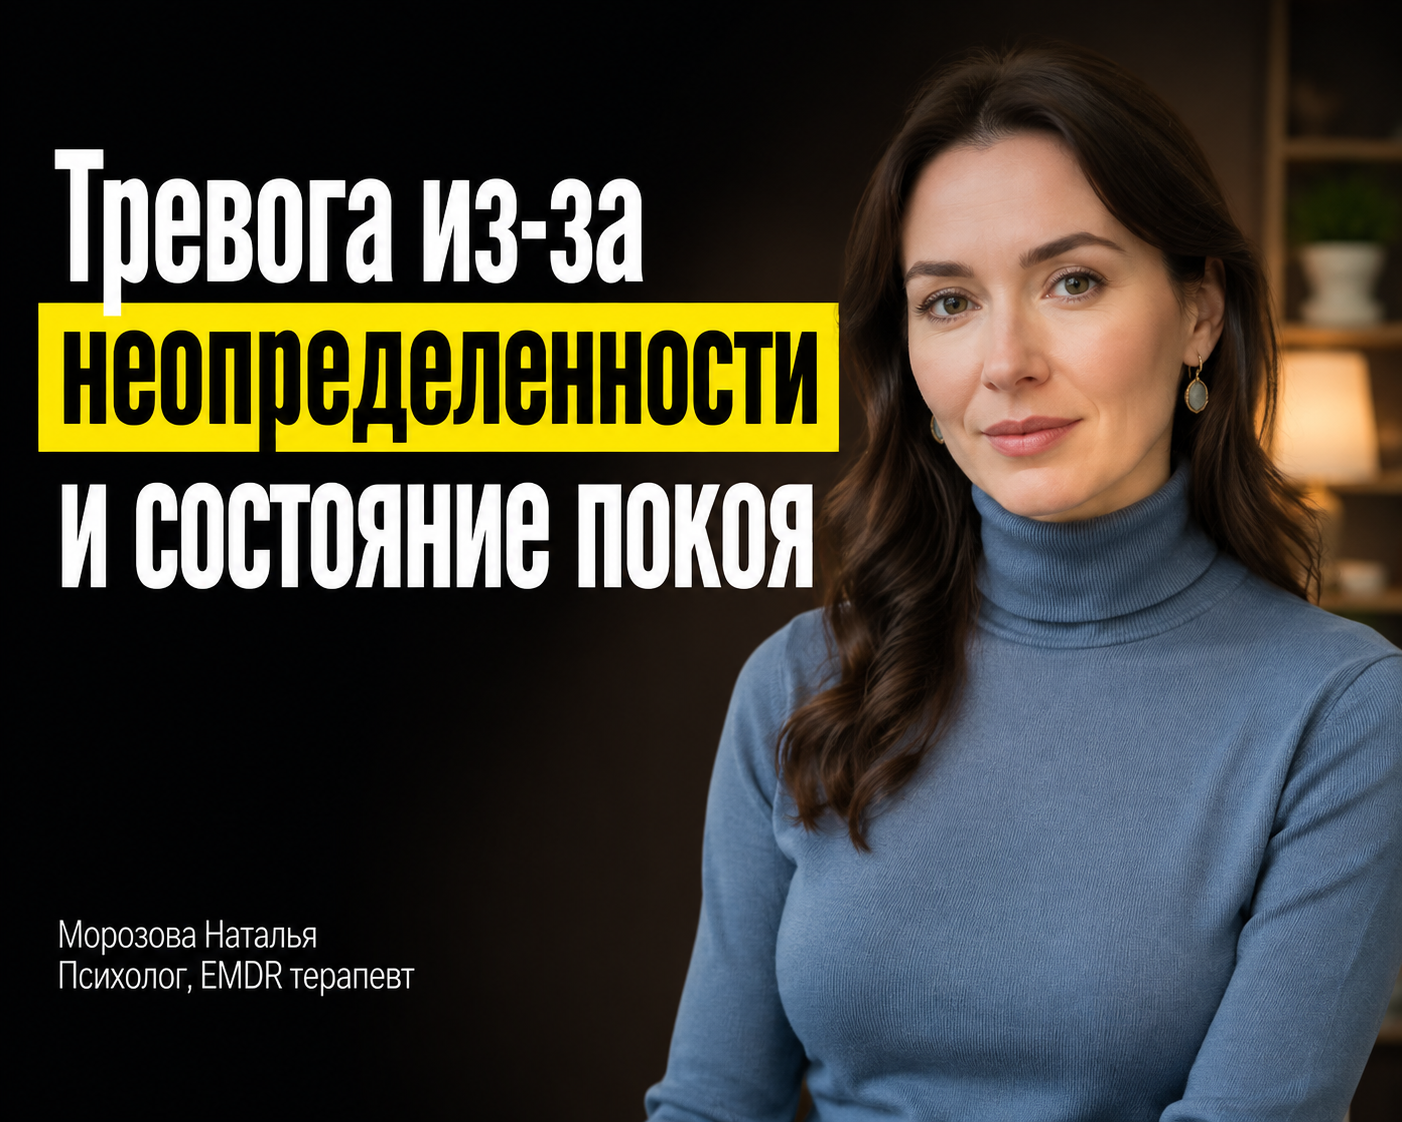
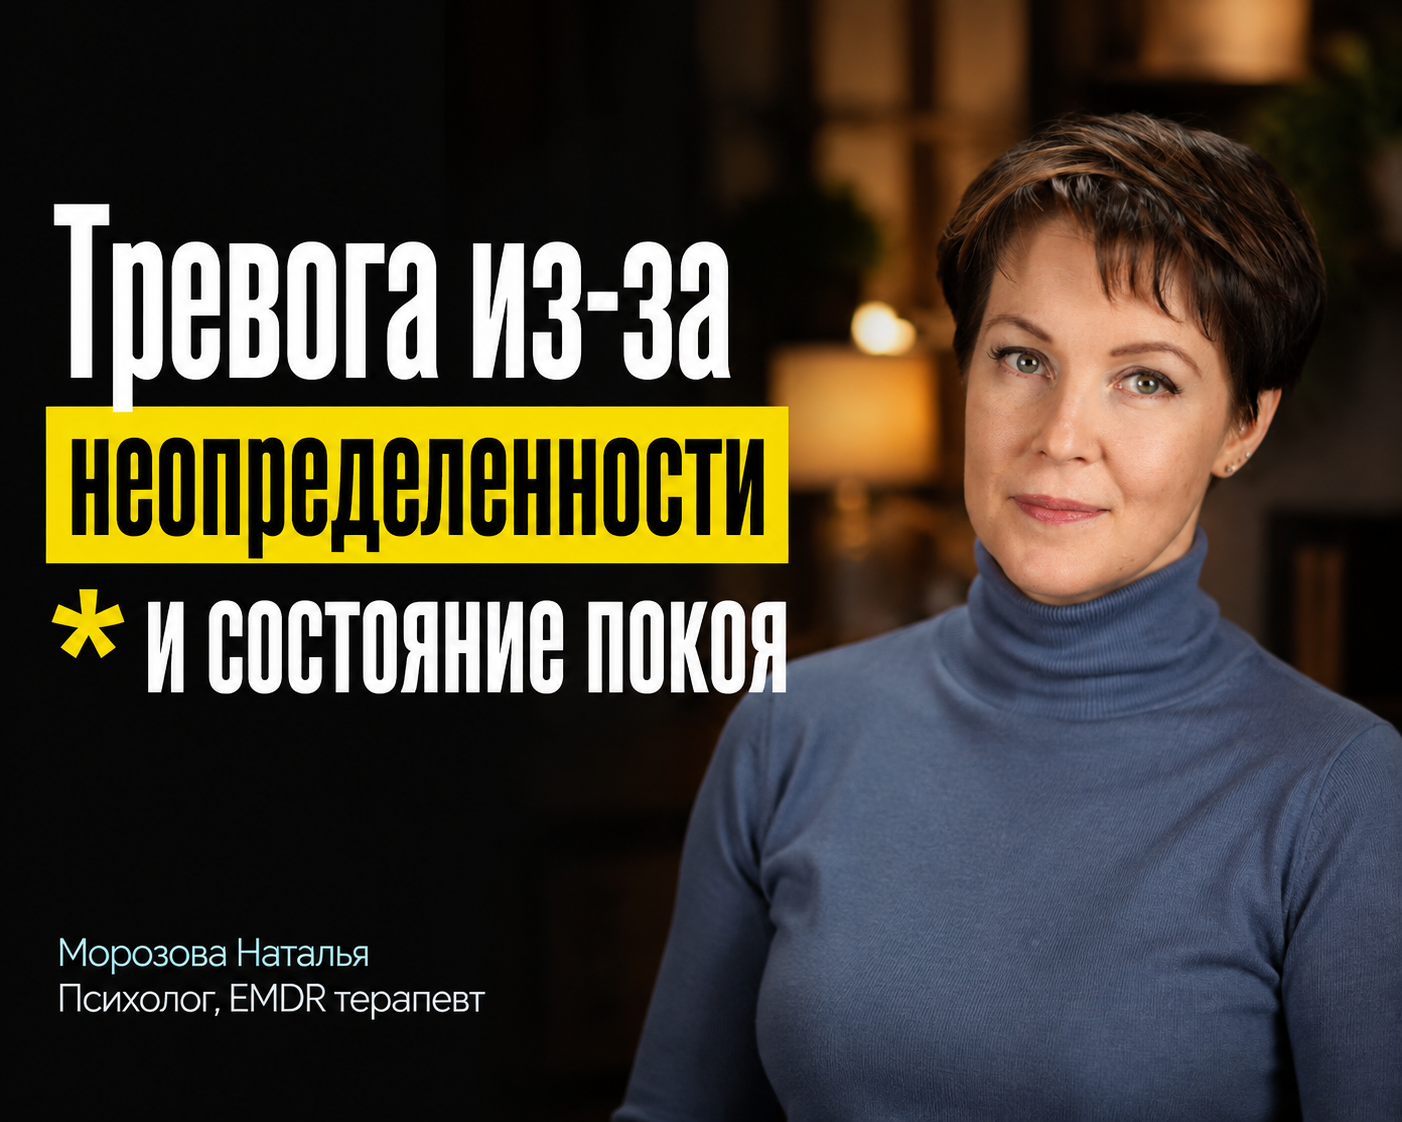
fix: reject 0-byte portrait refs on FTP; restore sb-14 likeness
CDN refs portrait-01..08 were empty stubs; reachable() ignored size and
Grsai invented a face. ensure_reference_public_url re-uploads; sb-14 cover
regenerated from portrait-06 and CDN updated.

diff --git a/scripts/cover_upload.py b/scripts/cover_upload.py
@@ -15,6 +15,7 @@ from pathlib import Path
 from typing import Any
 
 SITE_COVER_BASE = "https://morozovanatalia.ru/social-covers"
+MIN_REFERENCE_BYTES = 20_000
 
 
 def prepare_jpeg(cover: Path, *, width: int = 1024, quality: int = 65) -> Path:
@@ -266,30 +267,130 @@ def verify_url(url: str) -> int:
     return int((proc.stdout or "0").strip() or "0")
 
 
-def url_serves_image(url: str, *, timeout: int = 30) -> bool:
-    """True if URL responds with image/* (not HTML login/404 page with HTTP 200)."""
+def probe_remote_image(url: str, *, min_bytes: int = MIN_REFERENCE_BYTES, timeout: int = 30) -> dict[str, Any]:
+    """Probe remote image: Content-Type + real byte size (rejects 0-byte FTP stubs)."""
+    headers = {
+        "User-Agent": "Mozilla/5.0 (compatible; PostsEMDR-cover-verify/1.0)",
+    }
     try:
-        req = urllib.request.Request(url, method="GET")
-        req.add_header("Range", "bytes=0-63")
-        req.add_header(
-            "User-Agent",
-            "Mozilla/5.0 (compatible; PostsEMDR-cover-verify/1.0)",
-        )
+        req = urllib.request.Request(url, method="HEAD", headers=headers)
         with urllib.request.urlopen(req, timeout=timeout) as resp:
             status = getattr(resp, "status", None) or resp.getcode()
             ct = (resp.headers.get("Content-Type") or "").lower()
-            if status not in (200, 206):
-                return False
-            return "image" in ct or "octet-stream" in ct
-    except Exception:
-        return False
+            cl_raw = resp.headers.get("Content-Length")
+            cl = int(cl_raw) if cl_raw and str(cl_raw).isdigit() else -1
+        if status in (200, 301, 302) and cl >= 0:
+            ok = ("image" in ct or "octet-stream" in ct) and cl >= min_bytes
+            return {
+                "ok": ok,
+                "http_status": status,
+                "content_type": ct,
+                "bytes": cl,
+                "method": "HEAD",
+            }
+    except Exception as exc:
+        head_err = str(exc)
+    else:
+        head_err = ""
+
+    try:
+        req = urllib.request.Request(url, method="GET", headers={**headers, "Range": "bytes=0-63"})
+        with urllib.request.urlopen(req, timeout=timeout) as resp:
+            status = getattr(resp, "status", None) or resp.getcode()
+            ct = (resp.headers.get("Content-Type") or "").lower()
+            cr = resp.headers.get("Content-Range") or ""
+            total = -1
+            if "/" in cr:
+                tail = cr.rsplit("/", 1)[-1].strip()
+                if tail.isdigit():
+                    total = int(tail)
+            if total < 0:
+                cl_raw = resp.headers.get("Content-Length")
+                # Range response length is chunk size — not total; treat unknown as fail-safe read
+                chunk = resp.read(64)
+                total = len(chunk) if status in (200, 206) else -1
+                if status == 200 and cl_raw and str(cl_raw).isdigit():
+                    total = int(cl_raw)
+            ok = (
+                status in (200, 206)
+                and ("image" in ct or "octet-stream" in ct)
+                and total >= min_bytes
+            )
+            return {
+                "ok": ok,
+                "http_status": status,
+                "content_type": ct,
+                "bytes": total,
+                "method": "GET_RANGE",
+                "head_error": head_err or None,
+            }
+    except Exception as exc:
+        return {
+            "ok": False,
+            "http_status": None,
+            "content_type": "",
+            "bytes": 0,
+            "method": "failed",
+            "error": str(exc),
+            "head_error": head_err or None,
+        }
+
+
+def ensure_reference_public_url(
+    local: Path,
+    *,
+    slot: int | None = None,
+    min_bytes: int = MIN_REFERENCE_BYTES,
+) -> str:
+    """HTTPS URL for portrait reference. Re-upload if remote missing/empty/too small."""
+    if not local.is_file():
+        raise SystemExit(f"Reference image missing: {local}")
+    local_size = local.stat().st_size
+    if local_size < min_bytes:
+        raise SystemExit(
+            f"Local reference too small/corrupt ({local_size} bytes): {local}"
+        )
+
+    name = local.name
+    if slot is not None:
+        name = f"portrait-{slot:02d}.jpg"
+    remote_name = f"refs/{name}"
+    url = public_cover_url(remote_name)
+    probe = probe_remote_image(url, min_bytes=min_bytes)
+
+    needs_upload = (
+        not probe.get("ok")
+        or int(probe.get("bytes") or 0) < min_bytes
+        or int(probe.get("bytes") or 0) < int(local_size * 0.5)
+    )
+    if needs_upload:
+        env = load_upload_env()
+        result = upload_cover(local, remote_name, env)
+        url = result.get("url") or url
+        probe = probe_remote_image(url, min_bytes=min_bytes)
+        if not probe.get("ok"):
+            raise SystemExit(
+                f"Reference upload failed size/type gate: {url} probe={probe}"
+            )
+    return url
+
+
+def url_serves_image(url: str, *, timeout: int = 30) -> bool:
+    """True if URL responds with a real image payload (not empty stub / HTML)."""
+    return bool(probe_remote_image(url, min_bytes=MIN_REFERENCE_BYTES, timeout=timeout).get("ok"))
 
 
 def verify_cover_url(url: str) -> dict[str, Any]:
-    """HTTP status + whether Content-Type is image (for VK MCP / Zernio gates)."""
-    status = verify_url(url)
-    serves_image = url_serves_image(url) if status in (200, 301, 302) else False
-    return {"http_status": status, "serves_image": serves_image, "ok": serves_image}
+    """HTTP status + whether Content-Type is image with non-empty bytes."""
+    probe = probe_remote_image(url, min_bytes=MIN_REFERENCE_BYTES)
+    return {
+        "http_status": probe.get("http_status"),
+        "serves_image": bool(probe.get("ok")),
+        "ok": bool(probe.get("ok")),
+        "bytes": probe.get("bytes"),
+        "content_type": probe.get("content_type"),
+        "probe_method": probe.get("method"),
+    }
 
 
 def probe_ftp(env: dict[str, str]) -> dict[str, Any]:

diff --git a/scripts/grsai-cover.py b/scripts/grsai-cover.py
@@ -16,43 +16,14 @@ import argparse
 import json
 import re
 import sys
-import urllib.request
 from pathlib import Path
 
 sys.path.insert(0, str(Path(__file__).resolve().parent))
-from cover_upload import load_upload_env, public_cover_url, upload_cover
+from cover_upload import ensure_reference_public_url
 from grsai_client import download_image, generate_image
 from posts_emdr_env import load_env, reference_image_path, reference_slot_for_topic
 
 MODEL_DEFAULT = "gpt-image-2"
-
-
-def reference_public_https(reference: Path, slot: int | None) -> str:
-    name = reference.name
-    if slot is not None:
-        name = f"portrait-{slot:02d}.jpg"
-    remote_name = f"refs/{name}"
-    url = public_cover_url(remote_name)
-
-    def _reachable(test_url: str) -> bool:
-        try:
-            req = urllib.request.Request(test_url, method="GET")
-            req.add_header("Range", "bytes=0-31")
-            with urllib.request.urlopen(req, timeout=20) as resp:
-                ct = (resp.headers.get("Content-Type") or "").lower()
-                return "image" in ct
-        except Exception:
-            return False
-
-    if _reachable(url):
-        return url
-
-    env = load_upload_env()
-    result = upload_cover(reference, remote_name, env)
-    uploaded_url = result.get("url") or url
-    if not _reachable(uploaded_url):
-        raise SystemExit(f"Reference uploaded but not reachable: {uploaded_url}")
-    return uploaded_url
 
 
 def main() -> None:
@@ -108,8 +79,9 @@ def main() -> None:
     }
     print(json.dumps({"reference_rotation": rotation_meta}, ensure_ascii=False), file=sys.stderr)
 
-    ref_url = reference_public_https(reference, slot)
+    ref_url = ensure_reference_public_url(reference, slot=slot)
     print(f"Reference URL: {ref_url}", file=sys.stderr)
+    rotation_meta["reference_upload_url"] = ref_url
 
     result = generate_image(
         api_key=api_key,

diff --git a/scripts/kie-cover.py b/scripts/kie-cover.py
@@ -22,40 +22,11 @@ import urllib.request
 from pathlib import Path
 
 sys.path.insert(0, str(Path(__file__).resolve().parent))
-from cover_upload import load_upload_env, public_cover_url, upload_cover
+from cover_upload import ensure_reference_public_url
 from kie_client import KieImageClient
 from posts_emdr_env import load_env, reference_image_path, reference_slot_for_topic
 
 MODEL = "gpt-image-2-image-to-image"
-
-
-def reference_public_https(reference: Path, slot: int | None) -> str:
-    """HTTPS URL портрета для Kie input_urls (WordPress или social-covers)."""
-    name = reference.name
-    if slot is not None:
-        name = f"portrait-{slot:02d}.jpg"
-    remote_name = f"refs/{name}"
-    url = public_cover_url(remote_name)
-
-    def _reachable(test_url: str) -> bool:
-        try:
-            req = urllib.request.Request(test_url, method="GET")
-            req.add_header("Range", "bytes=0-31")
-            with urllib.request.urlopen(req, timeout=20) as resp:
-                ct = (resp.headers.get("Content-Type") or "").lower()
-                return "image" in ct
-        except Exception:
-            return False
-
-    if _reachable(url):
-        return url
-
-    env = load_upload_env()
-    result = upload_cover(reference, remote_name, env)
-    uploaded_url = result.get("url") or url
-    if not _reachable(uploaded_url):
-        raise SystemExit(f"Reference uploaded but not reachable: {uploaded_url}")
-    return uploaded_url
 
 
 def main() -> None:
@@ -109,7 +80,7 @@ def main() -> None:
     }
     print(json.dumps({"reference_rotation": rotation_meta}, ensure_ascii=False), file=sys.stderr)
 
-    ref_url = reference_public_https(reference, slot)
+    ref_url = ensure_reference_public_url(reference, slot=slot)
     print(f"Reference URL: {ref_url}", file=sys.stderr)
 
     client = KieImageClient()

diff --git a/posts-emdr-memory/shared/agent-pipeline-pitfalls.md b/posts-emdr-memory/shared/agent-pipeline-pitfalls.md
@@ -311,6 +311,19 @@ VK без MCP: `vk_publish.py`. b17/TenChat без Undetectable — skip.
 
 **Не делать:** публиковать сырой Grsai output без postprocess.
 
+## Cover reference: 0-byte portrait на FTP → чужое лицо
+
+**Симптом (2026-08-12, sb-14):** обложка с «чужой тётей»; в логе `portrait-06.jpg on server was 0 bytes; used portrait-05 fallback`. На CDN `social-covers/refs/portrait-0N.jpg` почти все файлы были **0 bytes** (кроме 05), nginx отдавал `Content-Type: image/jpeg` → старый `_reachable()` считал OK и **не перезалил** локальный портрет.
+
+**Причина:** FTP stubs + проверка только Content-Type без Content-Length.
+
+**Правильно:**
+- `cover_upload.probe_remote_image` / `ensure_reference_public_url`: gate `bytes >= 20000` и re-upload если remote << local.
+- `grsai-cover.py` / `kie-cover.py` только через `ensure_reference_public_url`.
+- После фикса: перезалить `portrait-01…08` на FTP; при битой обложке — перегенерировать cover с правильным слотом.
+
+**Не делать:** fallback на другой portrait-слот «лишь бы сгенерировать»; не считать HTTP 200 + image/* достаточным без размера.
+
 ## OK: якоря ссылок (text_tokens) vs MCP plain text
 
 **Факт:** UI OK и API `MediaTextToken.link` умеют «слово → ссылка». Текущий MCP `ok_create_post_with_photo` принимает только `text`.
